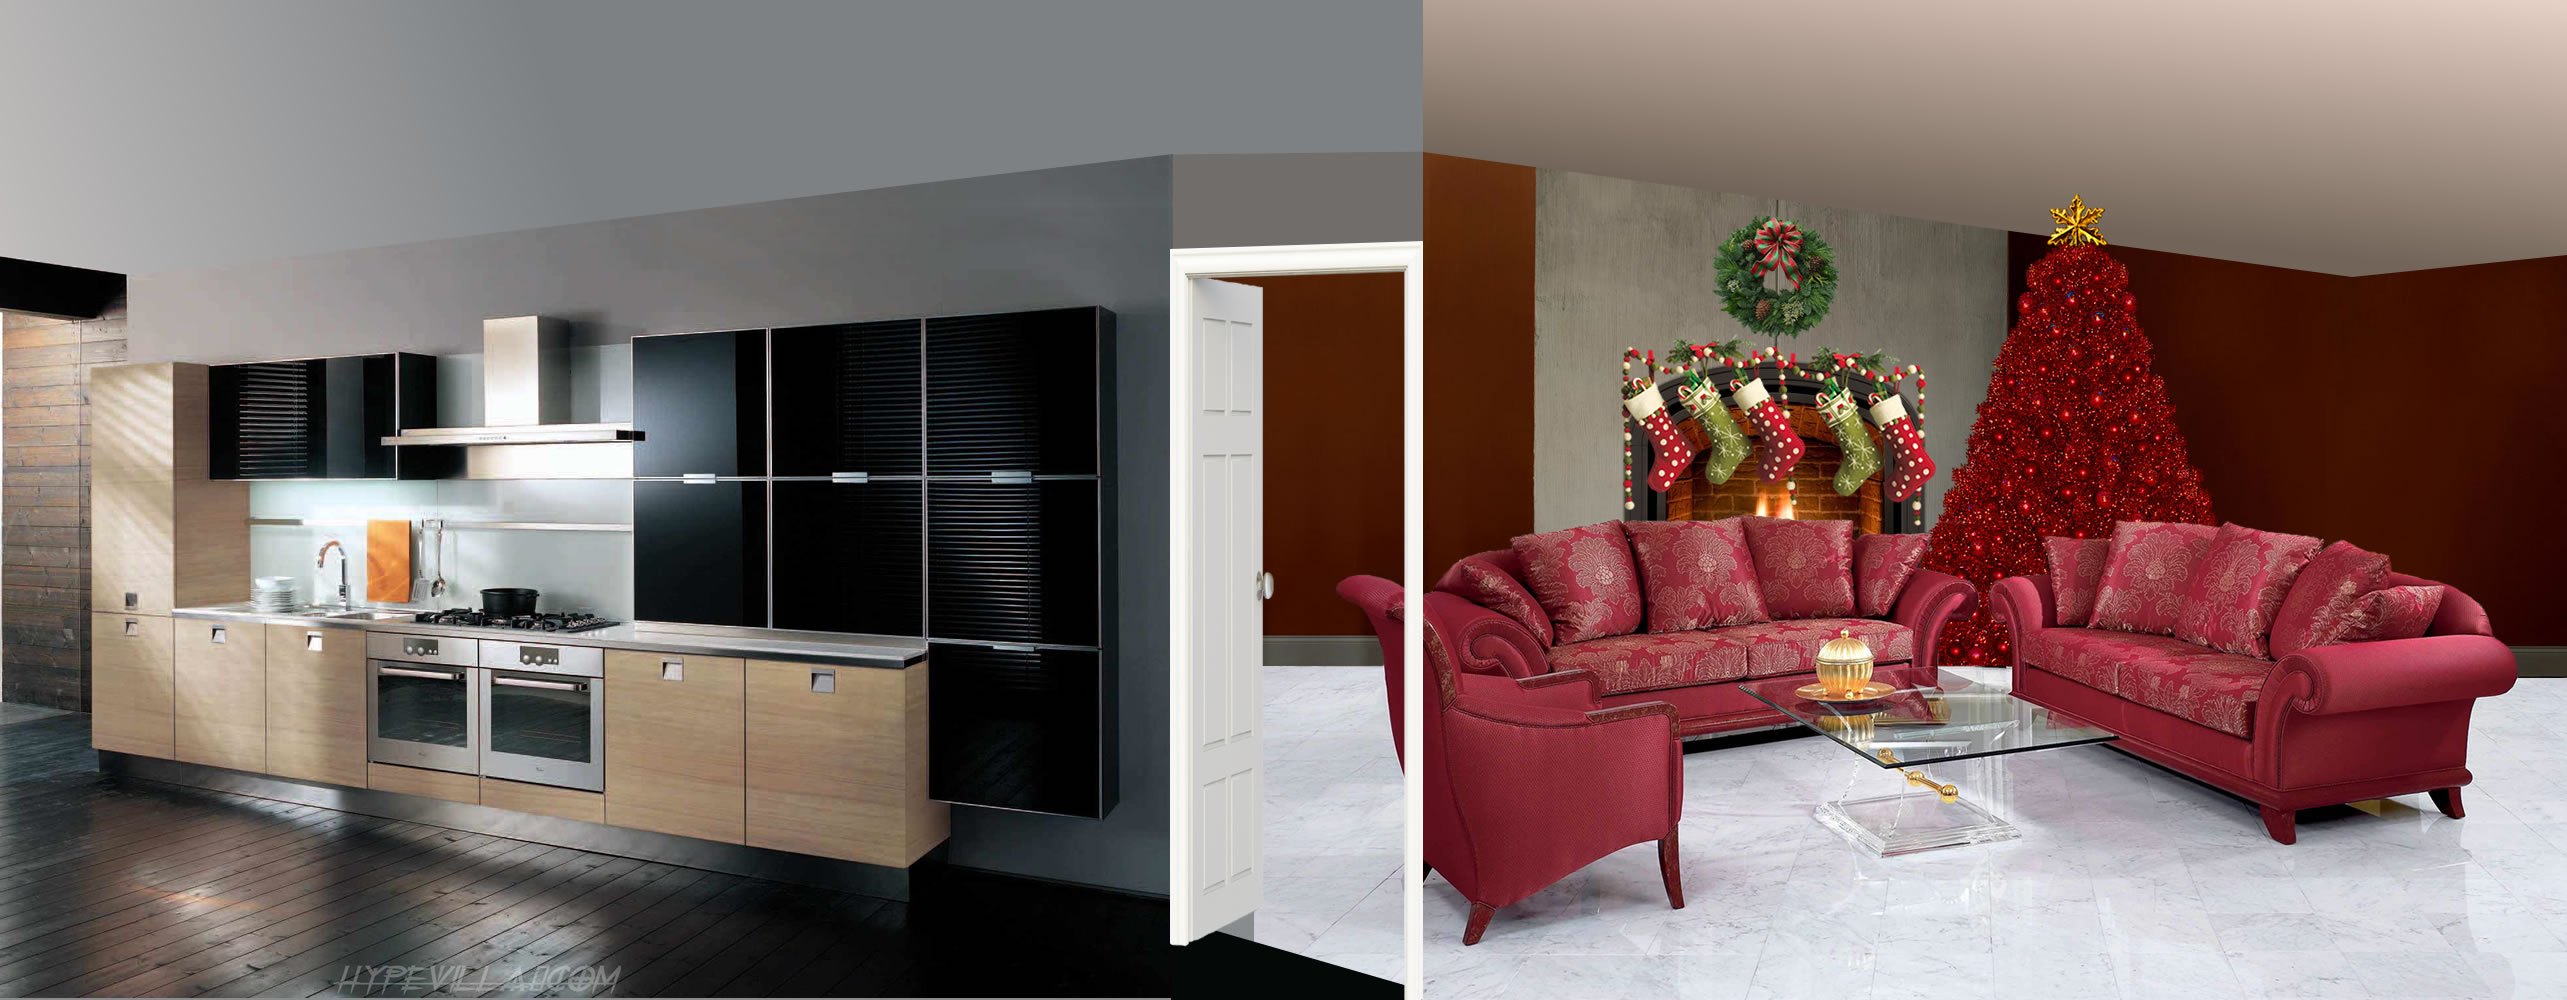
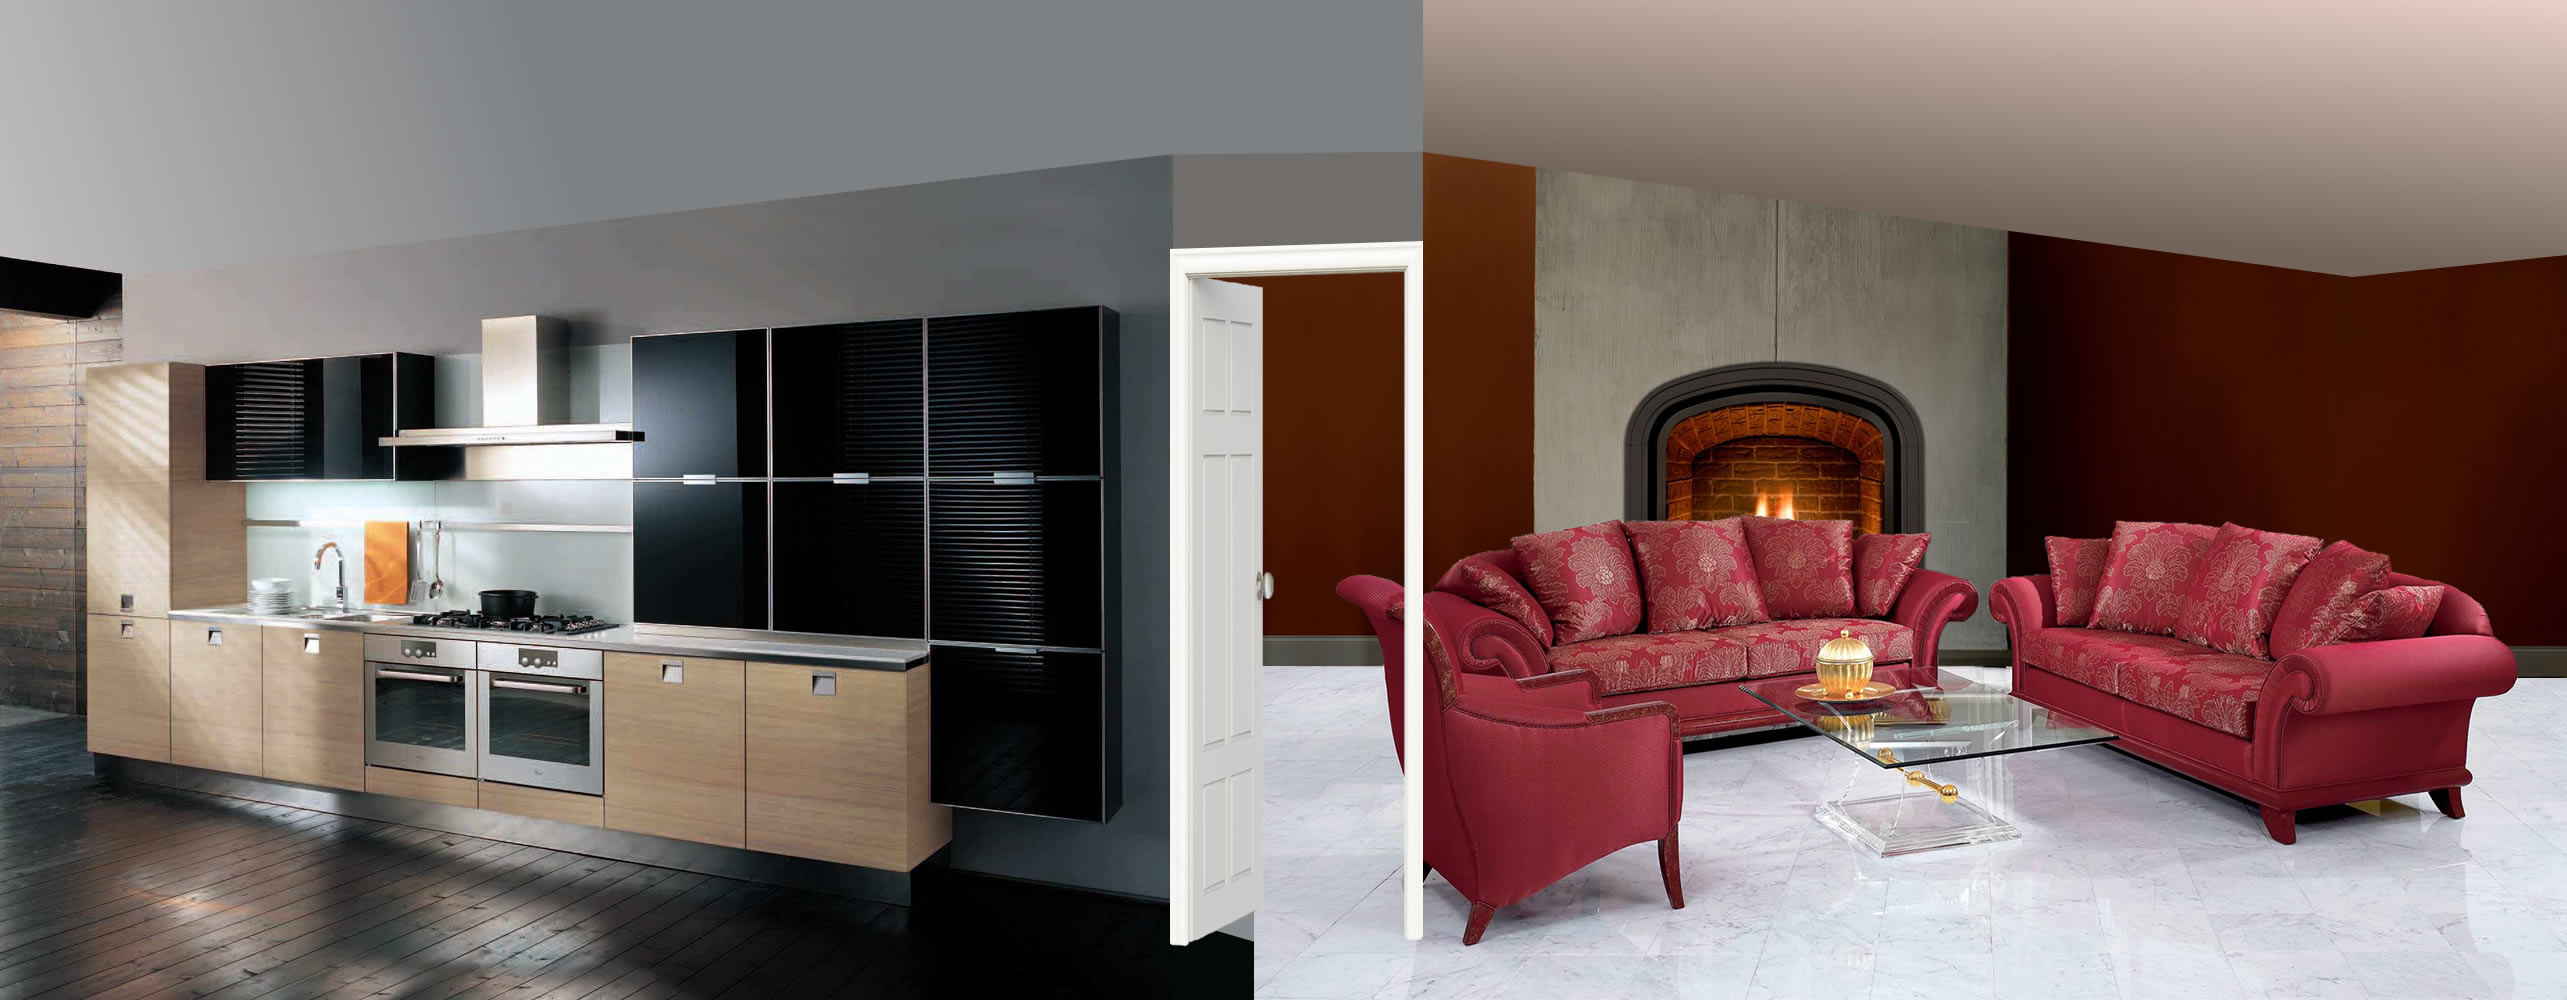
adding some changes for the kitchen scene - incomplete

diff --git a/css/main.css b/css/main.css
@@ -112,7 +112,7 @@ div.animation { position: relative; margin: 2% 10%; width: 1050px; height: 100%;
 
 #scene1 { height: 3000px; }
 #scene2 { height: 24000px; } 
-#scene3 { height: 8000px; } 
+#scene3 { height: 16000px; } 
 #scene4 { height: 6000px; }
 #scene5 { height: 7000px; }
 #scene6 { height: 10000px; }
@@ -207,6 +207,12 @@ div.animation { position: relative; margin: 2% 10%; width: 1050px; height: 100%;
 #max.max6 { background-position: 0 -1205px; }
 /* ===== Scene 3 ===== */
 
+#bunny-2 { position:absolute; background: url('../img/scene3/bunny-2.png') no-repeat 0 0; width: 209px; height: 178px; left: 1182px; bottom:10px; }
+#bunny-big { position:absolute; background: url('../img/scene3/bunny-big.png') no-repeat 0 0; width: 437px; height: 391px; left: 1642px; bottom: -20px; }
+#know-your-memes {  position:absolute; background: url('../img/scene3/know-your-memes.png') no-repeat 0 0; width: 117px; height: 101px; left: 1542px; bottom: 300px; }
+#doorway { position:absolute; background: url('../img/scene3/doorway.png') no-repeat 0 0; width: 253px; height: 706px; left: 1172px; bottom: 54px; }
+#couch { position:absolute; background: url('../img/scene3/couch.png') no-repeat 0 0; width: 1100px; height: 486px; left: 1242px; bottom: 0px; }
+
 #ericw { position: absolute; bottom: 3%; left: 35%; margin-left:  -215px; width: 350px; height: 606px; background: url('../img/scene3/ericw-sprite.png') no-repeat; background-position: 0px -48px; opacity: 0; }
 #ericw.ericw0 { background-image: none; }
 #ericw.ericw1 { height: 606px; background-position: 0px -48px; }
@@ -226,6 +232,22 @@ div.animation { position: relative; margin: 2% 10%; width: 1050px; height: 100%;
 #ericw.ericw15 { height: 628px; background-position: -358px -3209px; }
 #ericw.ericw16 { height: 608px; background-position: -358px -3853px; }
 #ericw.ericw17 { height: 611px; background-position: -358px -4554px; }
+
+#grinch-burbs { position:absolute; left: 1108px; bottom:220px; background: url('../img/scene3/grinch.png') no-repeat; }
+#grinch-burbs.grinch-burbs0 { width: 1446px; height: 616px; background: url('../img/scene3/grinch-start.png') no-repeat;  }
+#grinch-burbs.grinch-burbs1 { width: 1446px; height: 616px; background-position: -2914px -627px; }
+#grinch-burbs.grinch-burbs2 { width: 1446px; height: 616px; background-position: -2914px -0px; }
+#grinch-burbs.grinch-burbs3 { width: 1446px; height: 616px; background-position: -1457px -2508px; }
+#grinch-burbs.grinch-burbs4 { width: 1446px; height: 616px; background-position: -0px -2508px; }
+#grinch-burbs.grinch-burbs5 { width: 1446px; height: 616px; background-position: -1457px -1881px; }
+#grinch-burbs.grinch-burbs6 { width: 1446px; height: 616px; background-position: -0px -1881px; }
+#grinch-burbs.grinch-burbs7 { width: 1446px; height: 616px; background-position: -1457px -1254px; }
+#grinch-burbs.grinch-burbs8 { width: 1446px; height: 616px; background-position: -0px -1254px; }
+#grinch-burbs.grinch-burbs09 { width: 1446px; height: 616px; background-position: -1457px -627px; }
+#grinch-burbs.grinch-burbs10 { width: 1446px; height: 616px; background-position: -0px -627px; }
+#grinch-burbs.grinch-burbs11 { width: 1446px; height: 616px; background-position: -1457px -0px; }
+#grinch-burbs.grinch-burbs12 { width: 1446px; height: 616px; background-position: -0px -0px; }
+#grinch-burbs.grinch-burbs13 { width: 0px; height: 0px; background-position: -0px -0px; }
 
 /* ===== Scene 4 ===== */
 

diff --git a/js/main.js b/js/main.js
@@ -282,6 +282,14 @@ window.onload = function() {
 			
 			{id:document.getElementById("ericw"), start: 3, end: 3.05, x: 1, y: 0, type:"opacity"},
 			{id:document.getElementById("ericw"), start: 3.4, end: 3.6, x: -800, y: 0, type:"translate"},
+			{id:document.getElementById("bunny-2"), start: 3.4, end: 3.6, x: -1000, y: 0, type:"translate"},
+			{id:document.getElementById("bunny-big"), start: 3.4, end: 3.6, x: -1100, y: 0, type:"translate"},
+			{id:document.getElementById("know-your-memes"), start: 3.4, end: 3.6, x: -1100, y: 0, type:"translate"},
+			{id:document.getElementById("know-your-memes"), start: 3.6, end: 3.65, x: 1, y: 0, type:"opacity"},
+			{id:document.getElementById("doorway"), start: 3.4, end: 3.6, x: -1152, y: 0, type:"translate"},
+			{id:document.getElementById("couch"), start: 3.4, end: 3.6, x: -1213, y: 0, type:"translate"},
+			//{id:document.getElementById("grinch-burbs"), start: 3.4, end: 3.41, x: 1, y: 0, type:"opacity"},
+			{id:document.getElementById("grinch-burbs"), start: 3.4, end: 3.6, x: -1108, y: 0, type:"translate"},
 			{id:document.getElementById("s3bg"), start: 3.4, end: 3.6, x: 100, y: 0, type:"bgShift"}
 		
 		],
@@ -416,7 +424,8 @@ window.onload = function() {
 		],
 		
 		[  // scene 3		
-			{id:document.getElementById("ericw"), start: 3.1, end: 3.7, prefix: "ericw", order: [1,2,3,4,5,6,7,8,9,10,11,12,13,14,15,16,17], repeat:2}
+			{id:document.getElementById("ericw"), start: 3.05, end: 3.5, prefix: "ericw", order: [1,2,3,4,5,6,7,8,9,10,11,12,13,14,15,16,17], repeat:2},
+			{id:document.getElementById("grinch-burbs"), start: 3.7, end: 3.9, prefix: "grinch-burbs", order: [0,1,2,3,4,5,6,7,8,9,10,11,12,13], repeat:1}
 		],
 		
 		[ // scene 4			

diff --git a/index.html b/index.html
@@ -64,6 +64,12 @@
     <section id="scene3">
       <div id="s3bg" class="bg">
         <div id="ericw"></div>
+        <div id="grinch-burbs"></div>
+        <div id="couch"></div>
+        <div id="doorway"></div>
+        <div id="bunny-2"></div>
+        <div id="bunny-big"></div>
+        <div id="know-your-memes"></div>
       </div>
     </section>
 
